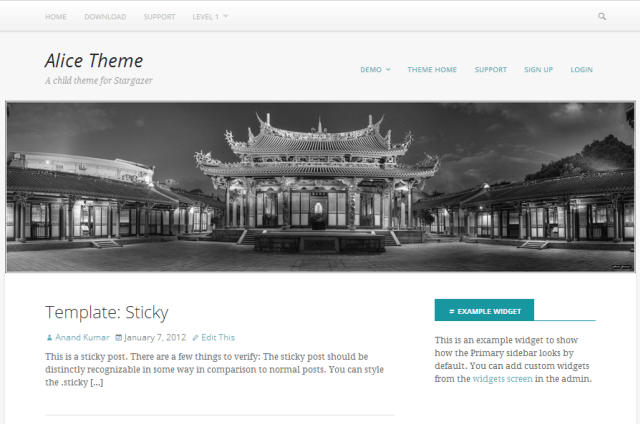
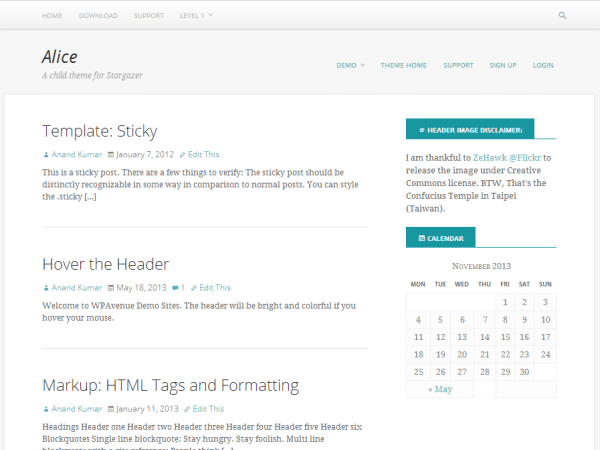
Replaced Header with a NASA copyleft image
Which makes more sense

diff --git a/style.css b/style.css
@@ -1,8 +1,8 @@
 /*
 	Theme Name: Alice
-	Theme URI: http://www.wpavenue.com/themes/alice
+	Theme URI: http://themehybrid.com/themes/alice
 	Description: This is a child theme for Stargazer WordPress Theme. 
-	Author: Anand Kumar
+	Author: Anand_Kumar
 	Author URI: http://www.blogsynthesis.com/
 	Version: 1.0.0
  
@@ -38,7 +38,7 @@ body.custom-background {
 }
 
 #sidebar-subsidiary {
-	box-shadow: 0 2px 6px #ddd;
+	box-shadow: 0 1px 6px #ddd;
 	background: #444;
 }
 

diff --git a/functions.php b/functions.php
@@ -22,12 +22,7 @@ function alice_theme_setup() {
         add_filter( 'theme_mod_color_primary', 'alice_color_primary' );
 		
 		/* Change default custom header */
-		add_theme_support( 'custom-header', array (
-			'default-image'          => '%2$s/images/headers/header.png',
-			'width'                  => 1175,
-			'height'                 => 200, 	// You may customize.
-		)
-	);
+		add_theme_support( 'custom-header', array ( 'default-image' => '%2$s/images/headers/header.jpg'	) );
 		
 }
 

diff --git a/readme.md b/readme.md
@@ -6,7 +6,7 @@ Alice is a WordPress child theme for the [Stargazer](http://themehybrid.com/them
 
 Here are a few tips for you.
 * First of all You will need to install the parent theme [Stargazer](http://themehybrid.com/themes/stargazer).
-* You may download the images, you have seen on [demo site](http://demo.wpavenue.com/alice) from [ZeHawk @Flickr](http://www.flickr.com/photos/lastgunslinger/2947747282/). This is Creative Common (CC BY-SA 2.0) licensed image.
+* You may download the images, you have seen on [demo site](http://demo.wpavenue.com/alice), from [ZeHawk @Flickr](http://www.flickr.com/photos/lastgunslinger/2947747282/). This is Creative Common (CC BY-SA 2.0) licensed image.
 * For any support visit [WPAvenue](http://www.wpavenue.com) or [ThemeHybrid Support](http://themehybrid.com/support).
 
 ## Changelog
@@ -16,7 +16,7 @@ Here are a few tips for you.
 * Initial Release. Dt. 11/23/2013
 
 ## Copyright and License
-
+* The default header image it taken from http://hubblesite.org/. It's a NASA copyleft material.
 * All other resources and theme elements are licensed under the [GNU GPL](http://www.gnu.org/licenses/old-licenses/gpl-2.0.html), version 2 or later.
 
 2013 &copy; [Anand Kumar](http://www.blogsynthesis.com) and [Justin Tadlock](http://justintadlock.com).
